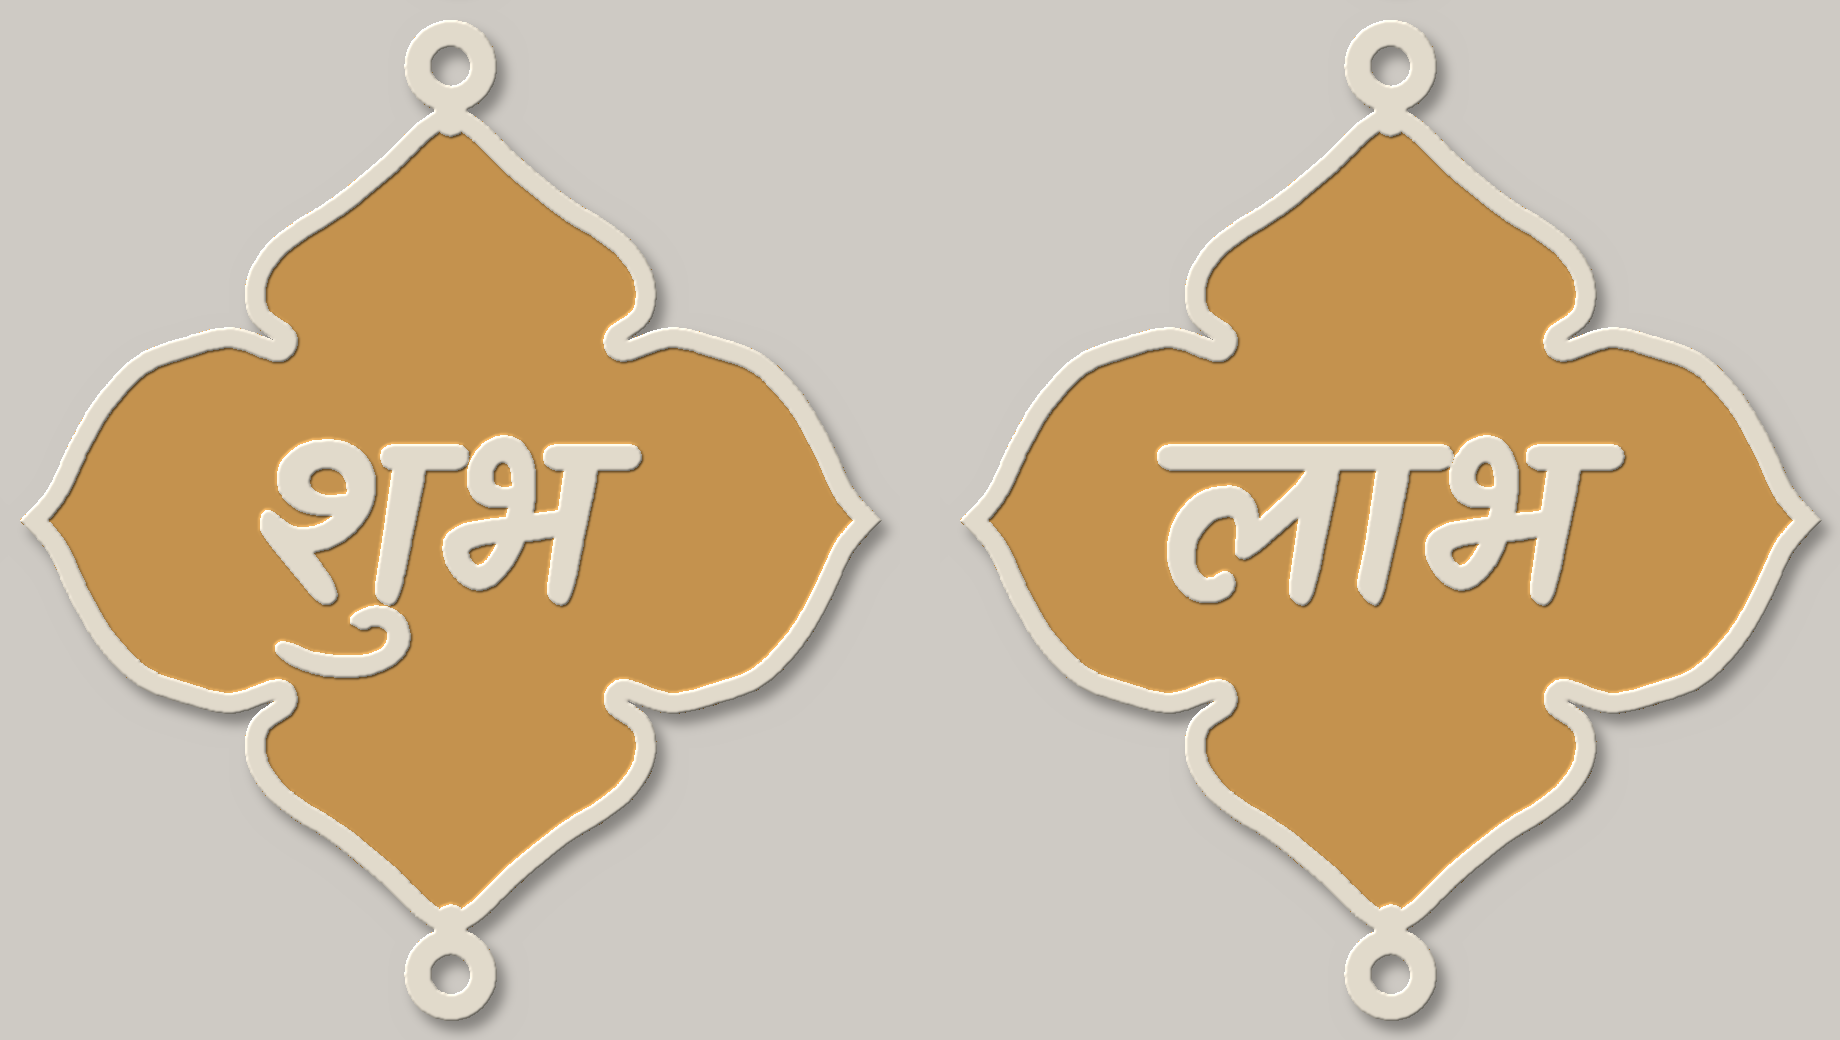
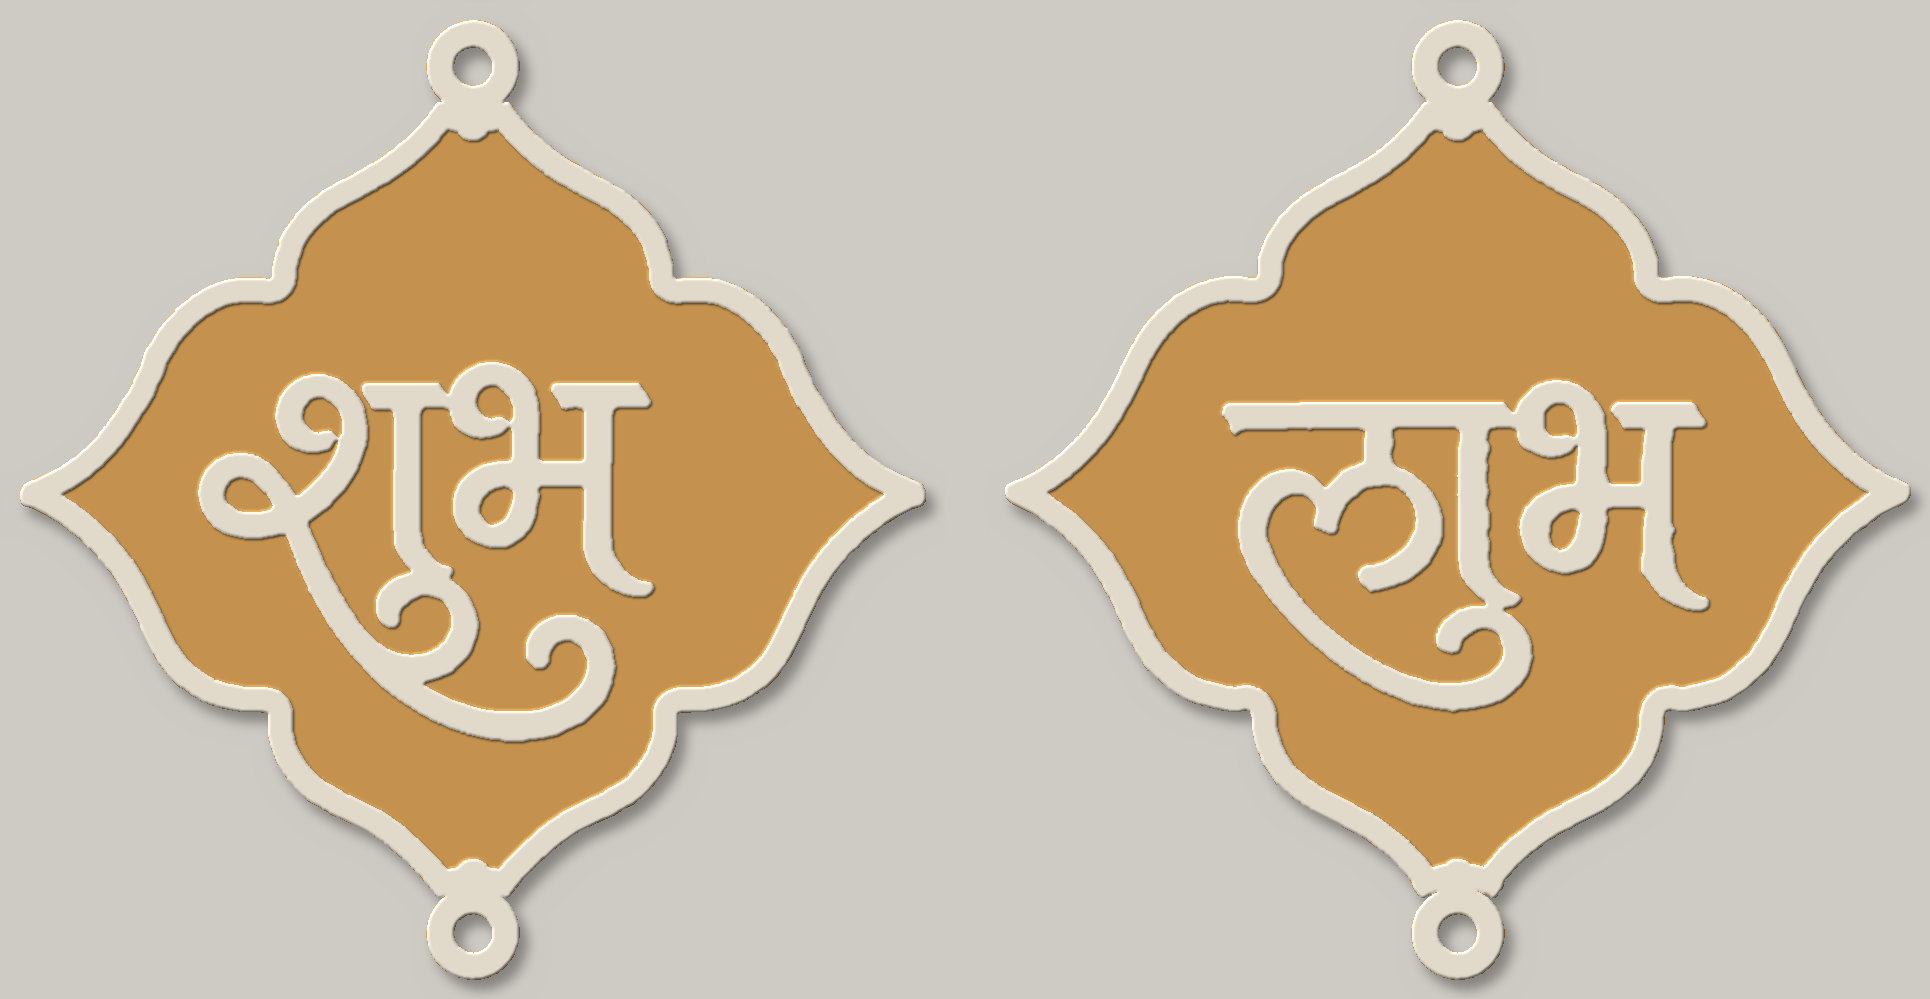
Shubh Labh plaques: trace calligraphy and outline from reference (preview only)
Lettering with its flourishes is traced and smoothed from the reference;
silhouette traced, cleaned and mirrored for symmetry; even 3 mm border;
round loops seated on the tips with through-holes. STLs pending approval.

Claude-Session: https://claude.ai/code/session_01HQyouszACcJfNx7ugTWrWT

diff --git a/tools/shubh_labh_traced.py b/tools/shubh_labh_traced.py
@@ -1,0 +1,156 @@
+#!/usr/bin/env python3
+"""Shubh / Labh hanging plaques traced from a reference image.
+
+The calligraphic lettering (with its flourishes) and the plaque silhouette are
+traced from the image and smoothed; the silhouette is mirrored so left and
+right match exactly. The border is an even band inside the silhouette and the
+hanging loops are true circles with through-holes.
+
+Usage:
+  python3 tools/shubh_labh_traced.py REF.png OUT_DIR [--stl]
+Without --stl it only writes preview images (approve those first).
+Needs: pip install numpy opencv-python-headless pillow manifold3d matplotlib
+"""
+import sys
+from pathlib import Path
+
+import cv2
+import numpy as np
+from manifold3d import CrossSection, FillRule, JoinType, Manifold
+
+import lotus_rangoli_board as render
+
+# --- Parameters (mm) ---------------------------------------------------------
+HEIGHT = 115.0         # overall height including both loops (width comes out ~109 mm)
+FLOOR_T = 2.0          # solid floor thickness
+RAISED_H = 1.5         # border + lettering height above the floor
+BORDER_W = 3.0         # border width (matches the reference proportions)
+LOOP_OD = 11.0         # hanging loop outer diameter
+LOOP_ID = 4.5          # hanging loop hole diameter
+UP = 4                 # tracing upscale factor (smoother curves)
+PLAQUES = {"shubh": (230, 915), "labh": (905, 1600)}   # x-range of each plaque in the image
+
+
+def masks(ref):
+    im = cv2.imread(ref)[:, :, ::-1].astype(np.int16)
+    v = im.mean(-1)
+    sat = im[..., 0] - im[..., 2]
+    cream = ((v > 192) & (sat < 85)).astype(np.uint8)
+    gold = (sat > 95).astype(np.uint8)
+    return cream, gold
+
+
+def smooth_up(mask, sigma):
+    """Upscale a binary mask and smooth its edges (removes pixel wobble)."""
+    big = cv2.resize(mask.astype(np.float32), None, fx=UP, fy=UP, interpolation=cv2.INTER_LINEAR)
+    return (cv2.GaussianBlur(big, (0, 0), sigma * UP) > 0.5).astype(np.uint8)
+
+
+def largest(mask):
+    n, lab, st, _ = cv2.connectedComponentsWithStats(mask)
+    return (lab == 1 + np.argmax(st[1:, cv2.CC_STAT_AREA])).astype(np.uint8)
+
+
+def to_cs(mask, mm, origin, eps=0.6):
+    """Binary mask (upscaled px) -> CrossSection in mm, y up, holes kept."""
+    cnts, _ = cv2.findContours(mask, cv2.RETR_CCOMP, cv2.CHAIN_APPROX_NONE)
+    polys = []
+    for c in cnts:
+        c = cv2.approxPolyDP(c, eps, True)[:, 0, :].astype(float)
+        if len(c) >= 3:
+            polys.append([((x - origin[0]) * mm, (origin[1] - y) * mm) for x, y in c])
+    return CrossSection(polys, FillRule.EvenOdd)
+
+
+def build(ref, word):
+    cream, gold = masks(ref)
+    x0, x1 = PLAQUES[word]
+    cream, gold = cream[:, x0:x1], gold[:, x0:x1]
+    rnd = JoinType.Round
+
+    # Plaque = largest cream/gold blob near the gold field (drops background speckle);
+    # its enclosed background bits are the loop holes.
+    g = largest(cv2.morphologyEx(gold, cv2.MORPH_OPEN, np.ones((5, 5), np.uint8)))
+    gc, _ = cv2.findContours(g, cv2.RETR_EXTERNAL, cv2.CHAIN_APPROX_NONE)
+    near = np.zeros_like(g)
+    cv2.drawContours(near, gc, -1, 1, cv2.FILLED)
+    near = cv2.dilate(near, np.ones((3, 3), np.uint8), iterations=90)
+    obj = cv2.morphologyEx((cream | gold) & near, cv2.MORPH_OPEN, np.ones((7, 7), np.uint8))
+    obj = largest(cv2.morphologyEx(obj, cv2.MORPH_CLOSE, np.ones((5, 5), np.uint8)))
+    filled = obj.copy()
+    cnts, _ = cv2.findContours(obj, cv2.RETR_EXTERNAL, cv2.CHAIN_APPROX_NONE)
+    cv2.drawContours(filled, cnts, -1, 1, cv2.FILLED)
+    n, lab, st, cen = cv2.connectedComponentsWithStats(((filled == 1) & (obj == 0)).astype(np.uint8))
+    holes = sorted([cen[i] for i in range(1, n) if st[i, cv2.CC_STAT_AREA] > 150],
+                   key=lambda c: c[1])
+    top, bot = holes[0], holes[-1]                       # loop centres (image px)
+    axis = (top[0] + bot[0]) / 2
+    mm = (HEIGHT - LOOP_OD) / (bot[1] - top[1]) / UP     # mm per upscaled px
+    origin = (axis * UP, (top[1] + bot[1]) / 2 * UP)
+
+    # Plaque body without the loops, mirrored for perfect left/right symmetry.
+    body = filled.copy()
+    ring_r = int(round(LOOP_OD / 2 / (mm * UP) * 1.45))   # clears the traced ring fully
+    for c in (top, bot):
+        cv2.circle(body, (int(round(c[0])), int(round(c[1]))), ring_r, 0, -1)
+    body = largest(body)
+    big = smooth_up(body, 1.5).astype(np.float32)
+    flip = cv2.warpAffine(big, np.float32([[-1, 0, 2 * origin[0]], [0, 1, 0]]),
+                          (big.shape[1], big.shape[0]))
+    body = ((big + flip) / 2 >= 0.5).astype(np.uint8)
+    body_cs = to_cs(body, mm, origin)
+
+    # Lettering: cream strokes inside the border, traced and smoothed.
+    inner_px = cv2.erode(filled, np.ones((3, 3), np.uint8), iterations=int(BORDER_W / (mm * UP)) + 3)
+    letters = cream & inner_px
+    letters = cv2.morphologyEx(letters, cv2.MORPH_OPEN, np.ones((2, 2), np.uint8))
+    n, lab, st, _ = cv2.connectedComponentsWithStats(letters)
+    keep = np.zeros(n, bool)
+    keep[1:] = st[1:, cv2.CC_STAT_AREA] > 500        # letters only, not border curls
+    letters = smooth_up(keep[lab].astype(np.uint8), 1.6)
+    text_cs = to_cs(letters, mm, origin)
+
+    # Loops sit right on the tips (as in the reference); scale so the overall
+    # height, loop to loop, is exactly HEIGHT.
+    sink = 1.2                                       # how far each ring overlaps its tip
+    lo, hi = body_cs.bounds()[1], body_cs.bounds()[3]
+    f = (HEIGHT - 2 * (LOOP_OD - sink)) / (hi - lo)
+    body_cs, text_cs = body_cs.scale((f, f)), text_cs.scale((f, f))
+    lo, hi = lo * f, hi * f
+    text_cs = text_cs ^ body_cs.offset(-BORDER_W + 0.2, rnd)
+    border_cs = body_cs - body_cs.offset(-BORDER_W, rnd)
+
+    # Hanging loops: true circles + a short neck into the tip; holes go right through.
+    loops, hole_cs = CrossSection(), CrossSection()
+    for tip, toward in ((hi, -1), (lo, 1)):
+        cy = tip - toward * (LOOP_OD / 2 - sink)
+        loops += CrossSection.circle(LOOP_OD / 2, 96).translate((0, cy))
+        loops += CrossSection.batch_hull([
+            CrossSection.circle(1.8, 32).translate((0, cy + toward * (LOOP_ID / 2 + 1.6))),
+            CrossSection.circle(2.2, 32).translate((0, tip + toward * 2.5))])
+        hole_cs += CrossSection.circle(LOOP_ID / 2, 64).translate((0, cy))
+
+    floor = (body_cs + loops) - hole_cs
+    raised = (border_cs + text_cs + loops) - hole_cs
+    model = Manifold.extrude(floor.offset(0.05, rnd), FLOOR_T)
+    model += Manifold.extrude(raised, RAISED_H + 0.3).translate((0, 0, FLOOR_T - 0.3))
+    model = model.simplify(0.02)
+    bb = model.bounding_box()
+    return model.translate((-(bb[0] + bb[3]) / 2, -(bb[1] + bb[4]) / 2, -bb[2]))
+
+
+if __name__ == "__main__":
+    ref, out = sys.argv[1], Path(sys.argv[2])
+    out.mkdir(parents=True, exist_ok=True)
+    render.BASE_T, render.RIDGE_H = FLOOR_T, RAISED_H
+    for word in PLAQUES:
+        m = build(ref, word)
+        bb = m.bounding_box()
+        print(f"{word}: {bb[3]-bb[0]:.1f} x {bb[4]-bb[1]:.1f} x {bb[5]-bb[2]:.1f} mm, "
+              f"~{m.volume()/1000*1.24:.0f} g PLA at 100% infill, genus {m.genus()}, "
+              f"parts {len(m.decompose())}")
+        render.heightmap_preview(m, out / f"{word}_preview_top.png")
+        render.angled_preview(m, out / f"{word}_preview_angle.png", elev=50, azim=-80)
+        if "--stl" in sys.argv:
+            render.write_stl(m, out / f"{word}_plaque.stl")
+            print("wrote", out / f"{word}_plaque.stl")
